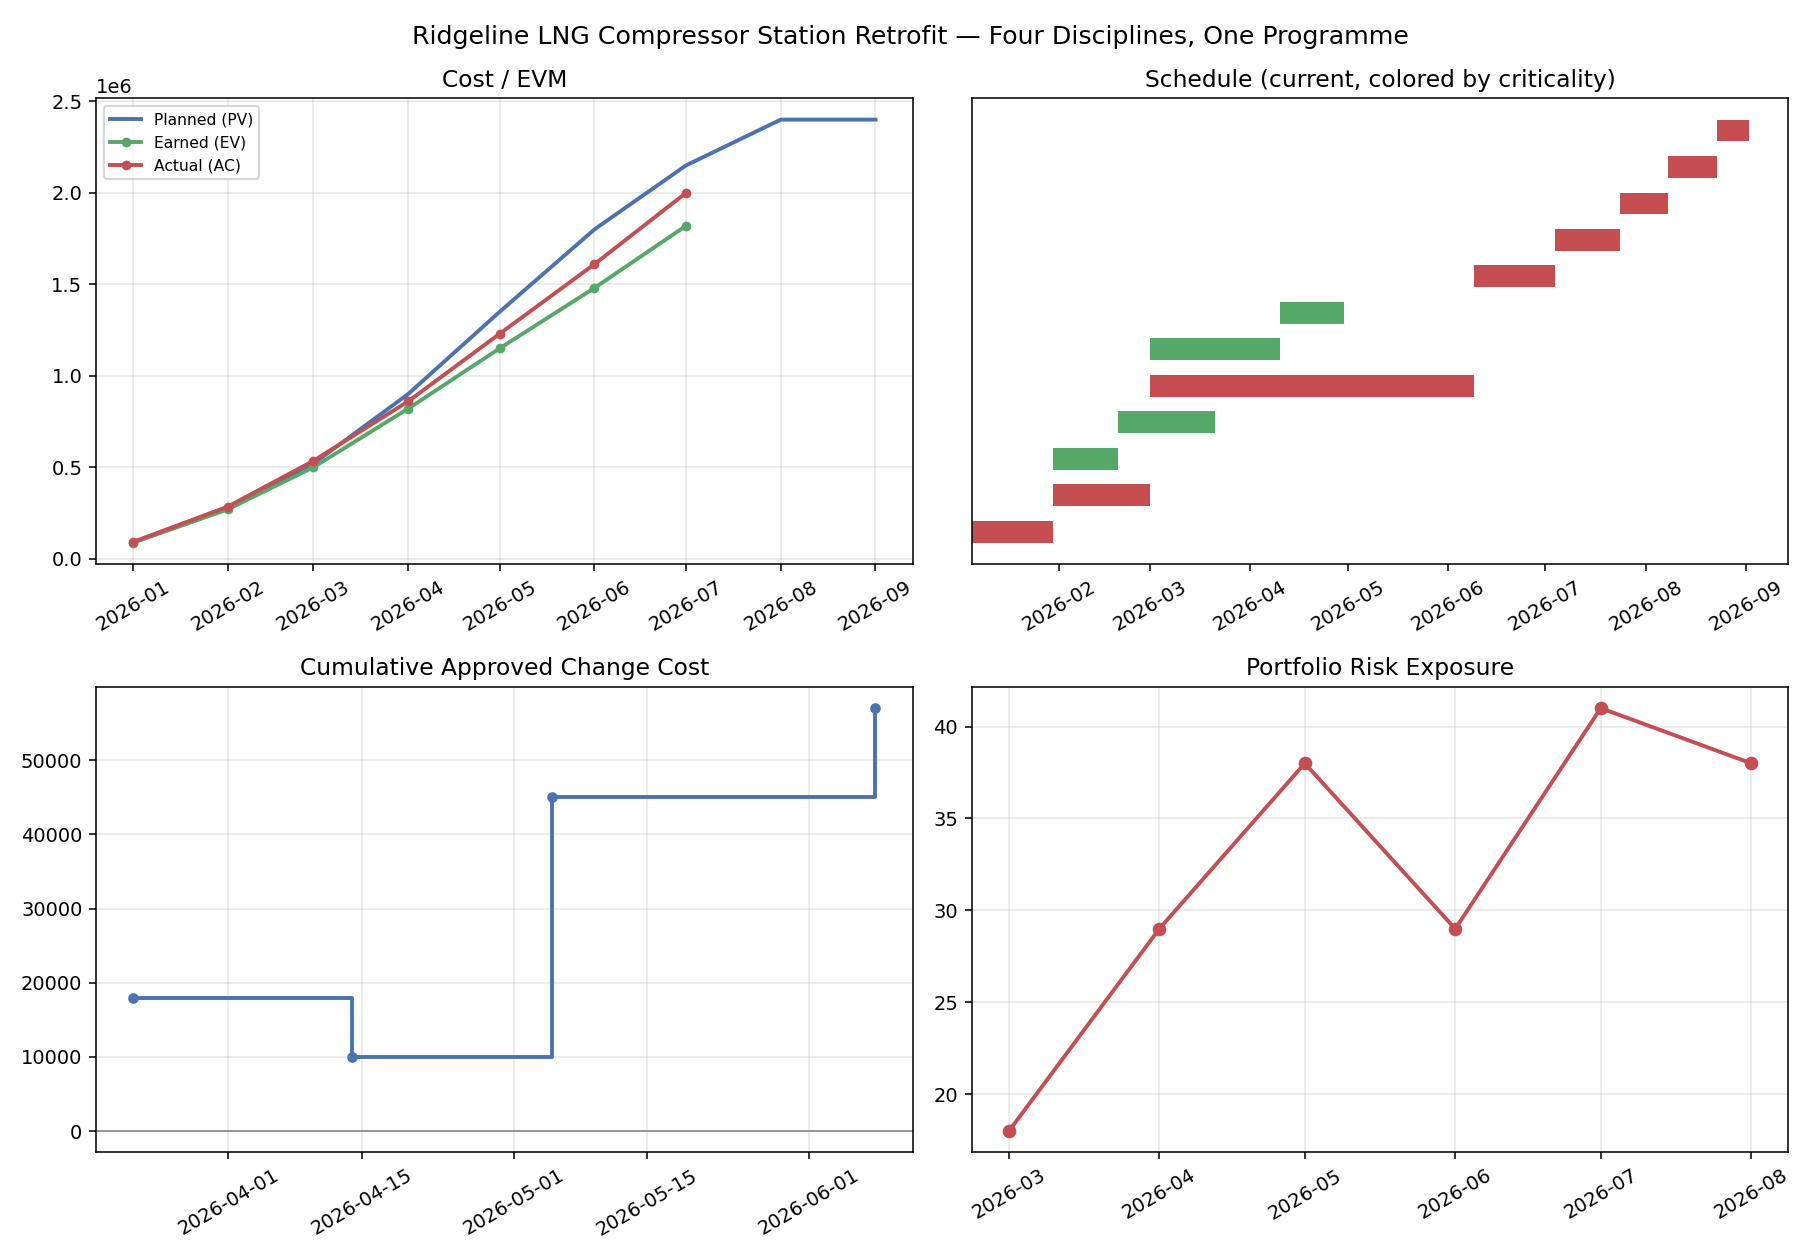
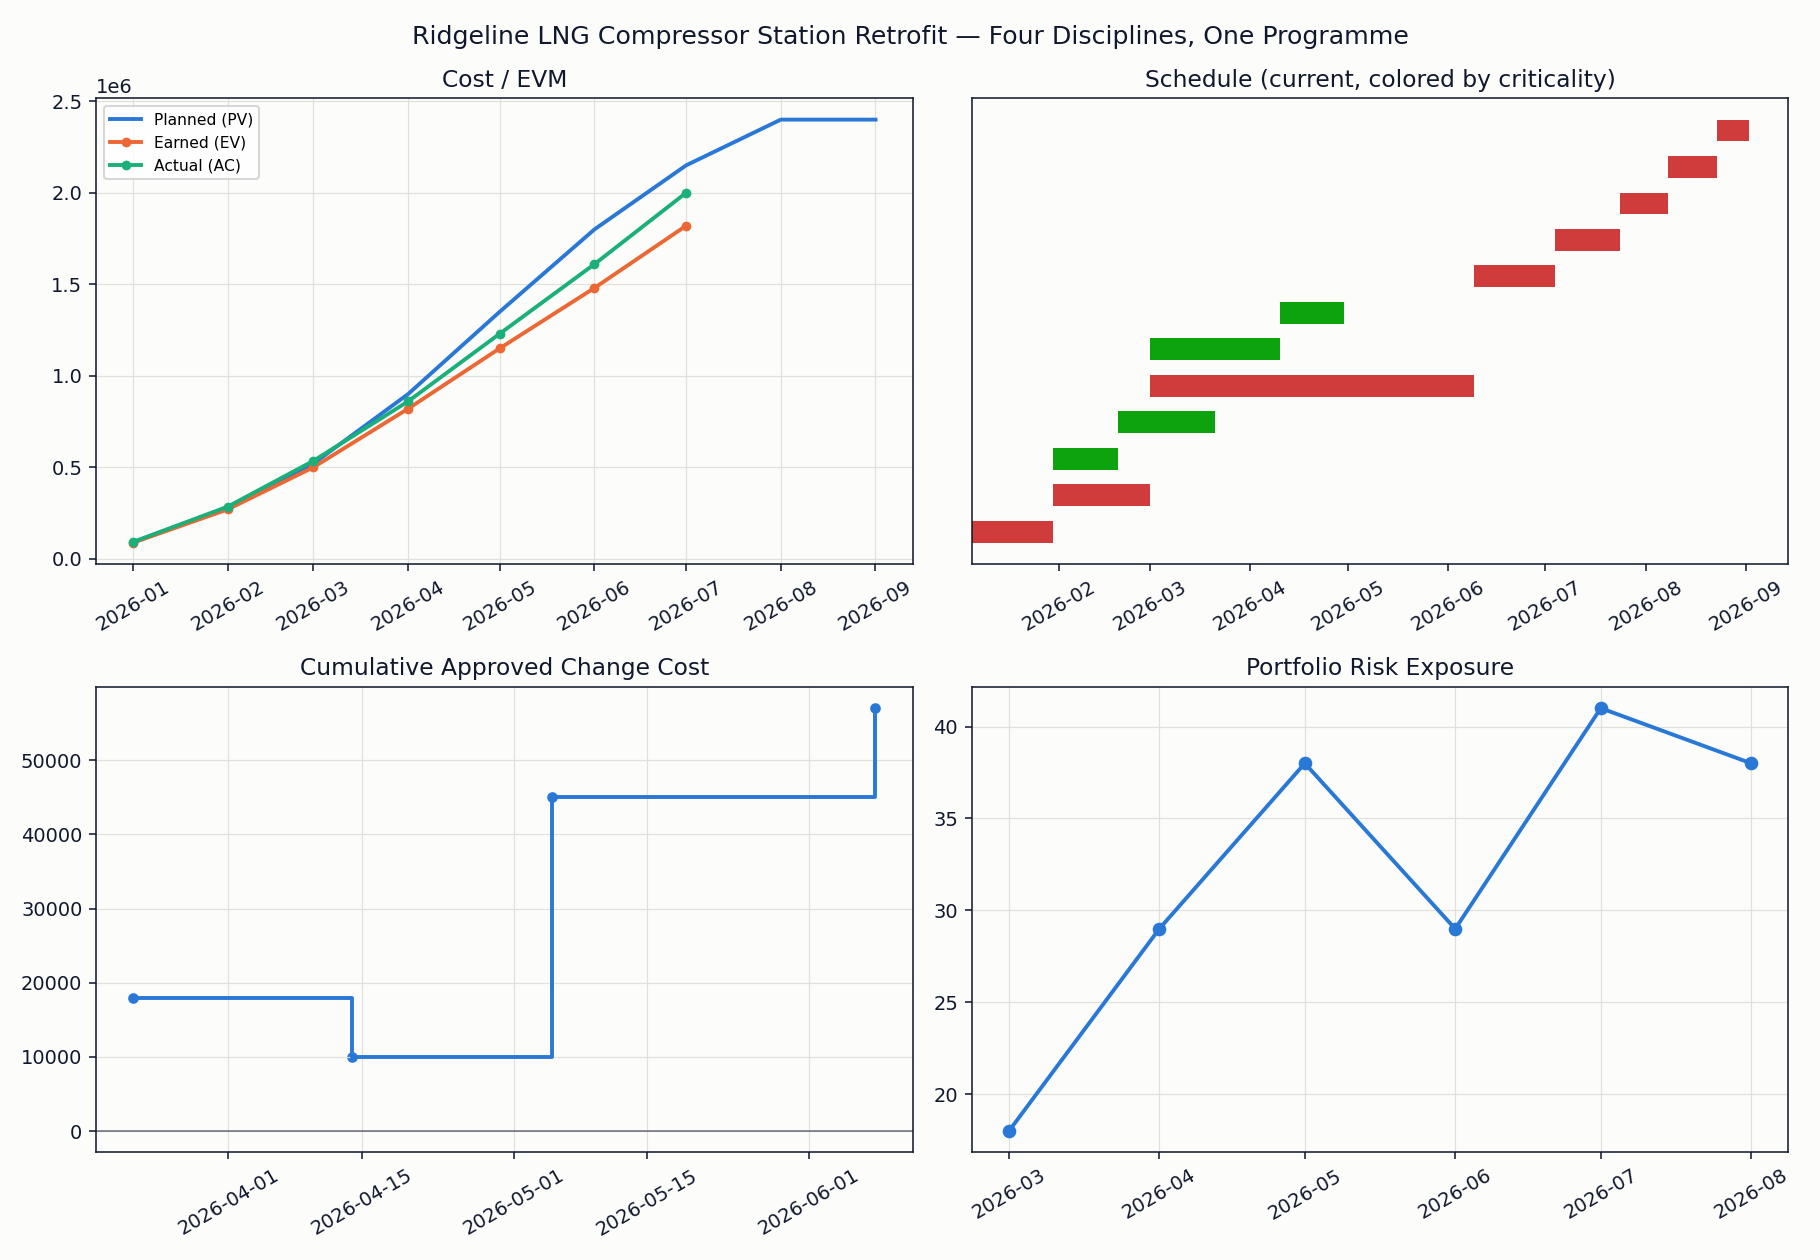
Standardize chart color system across the toolkit

diff --git a/reporting_engine.py b/reporting_engine.py
@@ -33,6 +33,34 @@ PROJECT_START = "2026-01-05"
 PLANNED_FINISH = "2026-08-03"
 STATUS_DATE = "2026-08-01"
 
+# Standardized chart color system (chart chrome, status scale, categorical series)
+CHART_BG = "#fcfcfb"
+INK = "#10182b"
+GRID = "#e1e0d9"
+SERIES_1 = "#2a78d6"
+SERIES_2 = "#eb6834"
+SERIES_3 = "#1baf7a"
+STATUS_GOOD = "#0ca30c"
+STATUS_WARNING = "#fab219"
+STATUS_CRITICAL = "#d03b3b"
+
+
+def _apply_chrome(fig, axes) -> None:
+    """Apply the standardized chart chrome (background, ink, gridlines) to a figure."""
+    fig.patch.set_facecolor(CHART_BG)
+    if hasattr(axes, "flatten"):
+        axes = axes.flatten().tolist()
+    elif not isinstance(axes, (list, tuple)):
+        axes = [axes]
+    for ax in axes:
+        ax.set_facecolor(CHART_BG)
+        ax.title.set_color(INK)
+        ax.xaxis.label.set_color(INK)
+        ax.yaxis.label.set_color(INK)
+        ax.tick_params(colors=INK)
+        for spine in ax.spines.values():
+            spine.set_color(INK)
+
 
 def money(x: float) -> str:
     return f"${x:,.0f}"
@@ -142,19 +170,19 @@ def chart_integrated_summary(d: dict, s: dict, c: dict, r: dict) -> None:
     ts = d["ts"]
     actuals = dash.actuals_only(ts)
     ax.plot(ts["period_label"].to_numpy(), ts["planned_value_cum"].to_numpy(),
-            label="Planned (PV)", color="#4C72B0", linewidth=2)
+            label="Planned (PV)", color=SERIES_1, linewidth=2)
     ax.plot(actuals["period_label"].to_numpy(), actuals["earned_value_cum"].to_numpy(),
-            label="Earned (EV)", color="#55A868", linewidth=2, marker="o", markersize=4)
+            label="Earned (EV)", color=SERIES_2, linewidth=2, marker="o", markersize=4)
     ax.plot(actuals["period_label"].to_numpy(), actuals["actual_cost_cum"].to_numpy(),
-            label="Actual (AC)", color="#C44E52", linewidth=2, marker="o", markersize=4)
+            label="Actual (AC)", color=SERIES_3, linewidth=2, marker="o", markersize=4)
     ax.set_title("Cost / EVM")
     ax.legend(fontsize=8)
-    ax.grid(alpha=0.3)
+    ax.grid(color=GRID, linewidth=0.6)
     ax.tick_params(axis="x", rotation=30)
 
     ax = axes[0, 1]
     comparison = s["comparison"]
-    colors = {"CRITICAL": "#C44E52", "near-critical": "#DD8452", "ok": "#55A868"}
+    colors = {"CRITICAL": STATUS_CRITICAL, "near-critical": STATUS_WARNING, "ok": STATUS_GOOD}
     for i, row in enumerate(comparison.sort_values("current_start").itertuples()):
         tag = "CRITICAL" if row.is_critical else ("near-critical" if row.is_near_critical else "ok")
         start_num = mdates.date2num(row.current_start)
@@ -168,24 +196,26 @@ def chart_integrated_summary(d: dict, s: dict, c: dict, r: dict) -> None:
     ax = axes[1, 0]
     cum = c["cum"]
     ax.step(cum["date_decided"].to_numpy(), cum["cum_cost"].to_numpy(), where="post",
-            color="#4C72B0", linewidth=2)
-    ax.scatter(cum["date_decided"].to_numpy(), cum["cum_cost"].to_numpy(), color="#4C72B0", s=20)
-    ax.axhline(0, color="gray", linewidth=0.8)
+            color=SERIES_1, linewidth=2)
+    ax.scatter(cum["date_decided"].to_numpy(), cum["cum_cost"].to_numpy(), color=SERIES_1, s=20)
+    ax.axhline(0, color=INK, linewidth=0.8, alpha=0.6)
     ax.set_title("Cumulative Approved Change Cost")
-    ax.grid(alpha=0.3)
+    ax.grid(color=GRID, linewidth=0.6)
     ax.tick_params(axis="x", rotation=30)
 
     ax = axes[1, 1]
     trend = r["exposure_trend"]
     ax.plot(trend["snapshot_date"].to_numpy(), trend["total_exposure"].to_numpy(),
-            color="#C44E52", linewidth=2, marker="o")
+            color=SERIES_1, linewidth=2, marker="o")
     ax.set_title("Portfolio Risk Exposure")
-    ax.grid(alpha=0.3)
+    ax.grid(color=GRID, linewidth=0.6)
     ax.tick_params(axis="x", rotation=30)
 
-    fig.suptitle("Ridgeline LNG Compressor Station Retrofit — Four Disciplines, One Programme", fontsize=13)
+    _apply_chrome(fig, axes)
+    fig.suptitle("Ridgeline LNG Compressor Station Retrofit — Four Disciplines, One Programme",
+                 fontsize=13, color=INK)
     fig.tight_layout()
-    fig.savefig(os.path.join(ASSETS_DIR, "integrated_summary.png"), dpi=140)
+    fig.savefig(os.path.join(ASSETS_DIR, "integrated_summary.png"), dpi=140, facecolor=CHART_BG)
     plt.close(fig)
 
 
